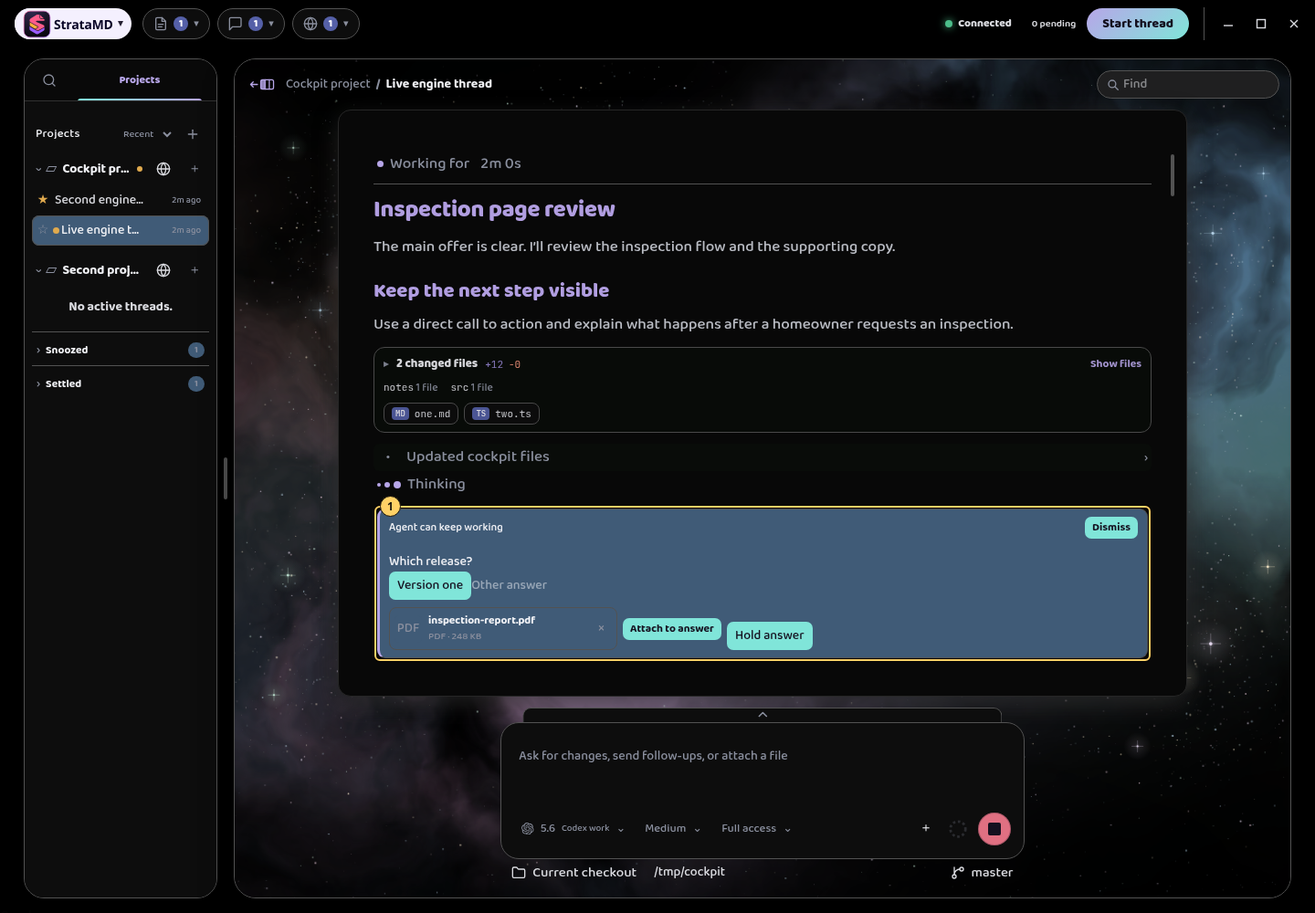
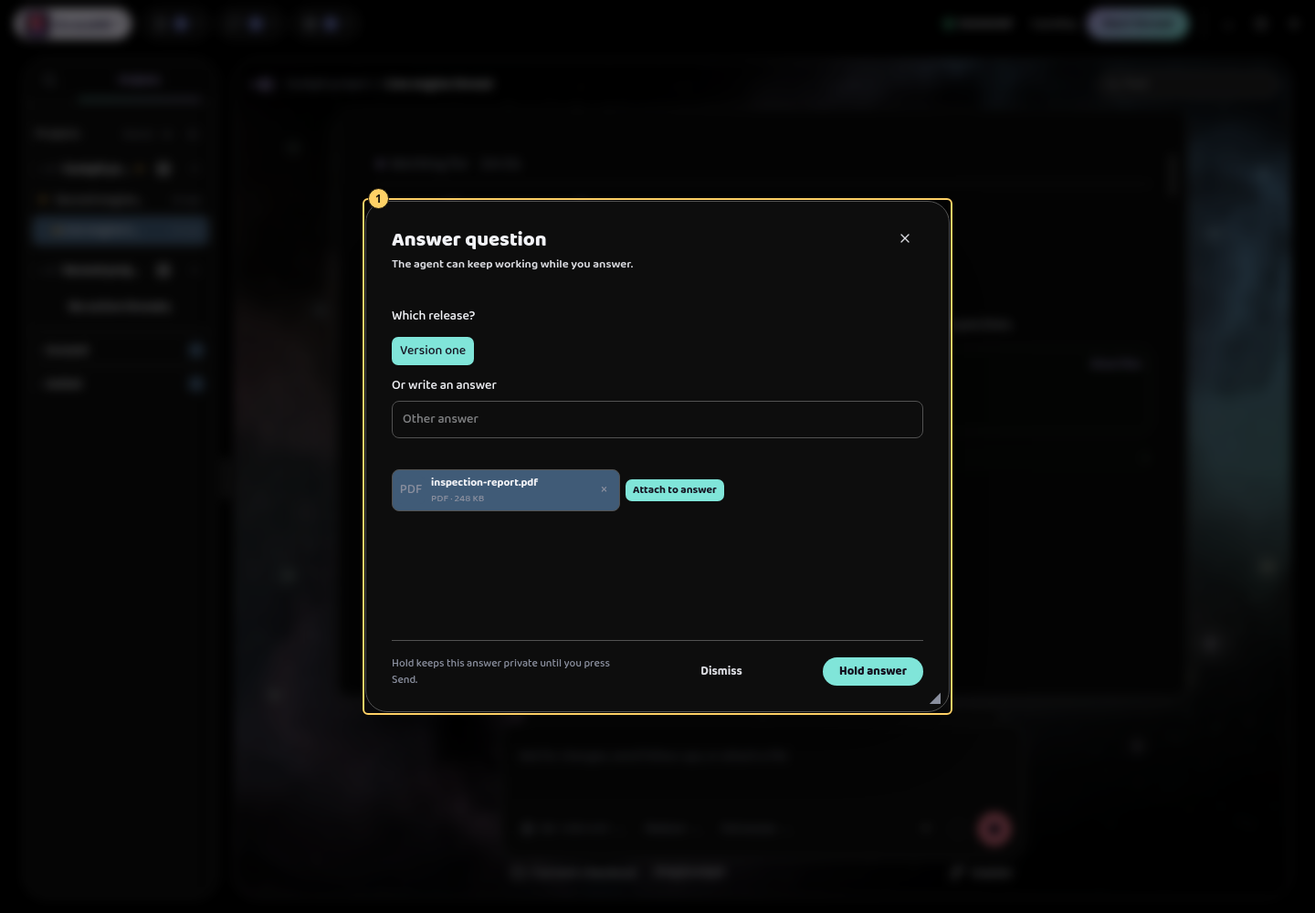
docs: correct question modal benchmark and record upstream contracts

diff --git a/docs/design/t3-additions-2026-09-08/v2/proposals.js b/docs/design/t3-additions-2026-09-08/v2/proposals.js
@@ -41,7 +41,7 @@ window.Proposals = (() => {
     const r=q(anchor).getBoundingClientRect();el.style.width=width+'px';el.style.left=Math.min(r.right-width,innerWidth-width-20)+'px';el.style.bottom=(innerHeight-r.top+10)+'px';return el;
   }
   function quota(name,value,reset,pace){return `<div class="proposal-quota"><div class="proposal-quota-line"><strong>${name} · ${value}% left</strong><span>${reset}</span></div><div class="proposal-bar" role="meter" aria-label="${name} remaining" aria-valuemin="0" aria-valuemax="100" aria-valuenow="${value}"><i style="width:${value}%"></i>${pace?`<b style="left:${pace}%" title="Time remaining in this window"></b>`:''}</div></div>`;}
-  function questions(state){
+  async function questions(state){
     const card=q('.conversation-request');mark(card,'Native question status, answer files, and dismissal');
     if(['held','sent','dismissed'].includes(state)){
       const text=state==='held'?'Answer held · Version one':state==='sent'?'Answer sent · Version one':'Question dismissed';
@@ -49,14 +49,29 @@ window.Proposals = (() => {
       if(state==='held'){heldSummary('1 answer · 1 file','held');sendButton('sent');}
       return;
     }
-    const head=node(`<div class="proposal-between proposal-question-head"><span>${state==='blocking'?'Waiting for your answer':'Agent can keep working'}</span>${state==='blocking'?'':button('Dismiss','dismissed')}</div>`);card.prepend(head);
-    q('.conversation-request form button[type="submit"]').disabled=state==='upload-error';
-    q('.conversation-request form button[type="submit"]').dataset.go='held';
-    const choice=q('.conversation-request fieldset button');choice.setAttribute('aria-pressed','true');
-    add(q('.conversation-request fieldset'),`<div class="proposal-question-files">${attachment('inspection-report.pdf',state==='upload-error'?'Could not stage this file':'PDF · 248 KB','files/pdf')}${button('Attach to answer','upload-error')}</div>`);
+    const settings=await (await fetch('reference/settings.json')).json();
+    const exported=document.createElement('template');exported.innerHTML=settings.html;
+    const backdrop=exported.content.querySelector('.modal-backdrop');
+    const modal=backdrop.querySelector('.setup-dialog');
+    modal.className='modal setup-dialog proposal-question-modal';
+    modal.setAttribute('aria-label','Answer question');
+    const header=modal.querySelector('.setup-dialog-header');
+    header.querySelector('h2').textContent='Answer question';
+    header.querySelector('.modal-subtitle').textContent=state==='blocking'?'The agent is waiting for your answer.':'The agent can keep working while you answer.';
+    header.querySelector('[aria-label="Close dialog"]').dataset.go='held';
+    const body=modal.querySelector('.setup-dialog-body');body.replaceChildren(card);
+    delete card.dataset.change;
+    card.querySelector('form > button[type="submit"]')?.remove();
+    card.querySelector('form button[type="submit"]')?.remove();
+    const choice=card.querySelector('fieldset button');choice.setAttribute('aria-pressed','true');
+    const input=card.querySelector('input');const answerLabel=node('<label class="setup-field">Or write an answer</label>');input.before(answerLabel);answerLabel.append(input);card.querySelector('fieldset').classList.add('setup-fields');
+    add(card.querySelector('fieldset'),`<div class="proposal-question-files">${attachment('inspection-report.pdf',state==='upload-error'?'Could not stage this file':'PDF · 248 KB','files/pdf')}${button('Attach to answer','upload-error')}</div>`);
     if(state==='upload-error')add(card,status('Could not read inspection-report.pdf. Choose it again to attach it.','error',button('Choose file again','asking')));
+    modal.querySelector('.parity-dialog-footer').innerHTML=`${note('Hold keeps this answer private until you press Send.')}${state==='blocking'?'':button('Dismiss','dismissed')}${button('Hold answer','held',true,state==='upload-error')}`;
+    q('.app-shell').append(backdrop);mark(modal,'Answer in the existing Strata modal, with per-answer files and Hold');
     if(state==='blocking'){const row=q('.conversation-working-row');row.textContent='Waiting for your answer';mark(row,'Working status reflects a required answer');}
   }
+
   function files(state){
     if(['attached','upload-error'].includes(state)){
       const tray=node(`<div class="conversation-attachments proposal-file-tray">${attachment('inspection-report.pdf','PDF · 248 KB','pdf')}${attachment('inspection-export.zip','ZIP · 1.8 MB','attached','ZIP')}</div>`);
@@ -192,7 +207,7 @@ window.Proposals = (() => {
   }
   const renderers={questions,files,usage,compact,skills,drafts,defaults,import:importFlow,evidence,capture,recovery,models};
   async function render(flow,state){
-    renderers[flow](state);
+    await renderers[flow](state);
     document.querySelectorAll('[data-change]').forEach(el=>{
       for(let parent=el.parentElement;parent&&parent!==document.body;parent=parent.parentElement){
         if(!['auto','scroll'].includes(getComputedStyle(parent).overflowY))continue;

diff --git a/docs/design/t3-additions-2026-09-08/v2/proposals.css b/docs/design/t3-additions-2026-09-08/v2/proposals.css
@@ -74,3 +74,13 @@
 .benchmark-overlay { position:fixed; inset:0; z-index:9999; pointer-events:none; }
 .benchmark-highlight { position:absolute; border:2px solid #ffd166; border-radius:6px; box-shadow:0 0 0 1px #000b; }
 .benchmark-highlight > b { position:absolute; left:4px; top:-13px; display:grid; place-items:center; min-width:23px; height:23px; border-radius:12px; padding:0 5px; color:#17120b; background:#ffd166; border:1px solid #17120b; font:700 12px/1 system-ui,sans-serif; }
+
+/* Owner correction: reuse the SetupDialog frame and existing answer controls. */
+.modal.setup-dialog.proposal-question-modal { width:640px; height:560px; }
+.proposal-question-modal .conversation-request { margin:0; padding:0; border:0; background:transparent; box-shadow:none; }
+.proposal-question-modal .parity-dialog-footer .proposal-note { margin-right:auto; max-width:250px; }
+
+.proposal-question-modal .conversation-request form { display:block; }
+.proposal-question-modal .conversation-request fieldset { display:grid; gap:12px; }
+.proposal-question-modal .conversation-request legend { margin-bottom:12px; }
+.proposal-question-modal .conversation-request fieldset > button { justify-self:start; }

diff --git a/docs/design/t3-additions-2026-09-08/v2/tools/capture-benchmarks.py b/docs/design/t3-additions-2026-09-08/v2/tools/capture-benchmarks.py
@@ -39,7 +39,7 @@ sources={}
 owner_review_path=base/'owner-review.json'
 owner_review=json.loads(owner_review_path.read_text()).get('review',{}) if owner_review_path.exists() else {}
 components={
- 'questions':['Conversation.tsx','ConversationComposer.tsx'], 'files':['Conversation.tsx','ConversationComposer.tsx','PreviewWindow.tsx'],
+ 'questions':['Conversation.tsx','ConversationComposer.tsx','SetupDialog.tsx'], 'files':['Conversation.tsx','ConversationComposer.tsx','PreviewWindow.tsx'],
  'usage':['AccountsDialog.tsx'], 'compact':['Conversation.tsx','ConversationComposer.tsx'], 'skills':['ConversationComposer.tsx'],
  'drafts':['ProjectsPanel.tsx','ConversationComposer.tsx'], 'defaults':['SettingsDialog.tsx','SetupDialog.tsx'], 'import':['SetupDialog.tsx','ProjectsPanel.tsx'],
  'evidence':['ConversationMessage.tsx','PreviewWindow.tsx'], 'capture':['VisualSession.tsx','ConversationComposer.tsx','SetupDialog.tsx'],
@@ -79,6 +79,7 @@ for flow in data['flows']:
         elif source=='image-annotation':affected=['.visual-card']
         elif flow['id']=='drafts':affected=['.project-thread[data-lifecycle="active"]','.chat-composer']+(['.conversation-messages'] if state=='opened' else [])
         else:affected=['.conversation-messages','.chat-composer']
+        if flow['id']=='questions' and state in ['asking','blocking','upload-error']:affected+=['.modal-backdrop']
         if flow['id']=='recovery' and state=='reconnecting':affected+=['[aria-label="Engine status"]']
         baseline_rects=rects(affected)
         info=load(flow['id'],state,'proposed')

diff --git a/docs/reviews/t3-additions-upstream-contracts-2026-09-08.md b/docs/reviews/t3-additions-upstream-contracts-2026-09-08.md
@@ -1,0 +1,97 @@
+# T3 upstream implementation audit
+
+Read-only audit, September 8 Arizona / September 9 UTC. Source extracted from official GitHub codeload at `/tmp/strata-t3-implementation-source`, revision `08463e2c401ce87858aaaebcb70ed86fb002fb5f`. No repository or app changes. AGENTS.md read; root MEMORY.md absent.
+
+## Engine package conclusion
+
+No currently published `t3` version contains all required changes. Official [npm metadata](https://registry.npmjs.org/t3) reports stable `0.0.40` and nightly `0.0.41-nightly.20260909.1426`. Neither published metadata entry includes `gitHead`; do not invent one. [Official nightly release](https://github.com/pingdotgg/t3code/releases/tag/v0.0.41-nightly.20260909.1426) identifies target commit `3e6f856f2359421958a3aa046f2c393e00f3dc6a`, published on npm at `2026-09-09T01:13:28.931Z`.
+
+GitHub compare API confirms that target is a descendant of #8103, #9871, #10431, #10501, #10572. Captured source is exactly two commits ahead: #10859 relay notification routing and #10777 event replay memory fix. [Official comparison](https://github.com/pingdotgg/t3code/compare/3e6f856f2359421958a3aa046f2c393e00f3dc6a...08463e2c401ce87858aaaebcb70ed86fb002fb5f).
+
+Recommended baseline is an EXACT pin to `t3@0.0.41-nightly.20260909.1426`, plus a deterministic source build/backport of #10777 if all requirements must ship now. A bare pin cannot be signed off as satisfying the replay fix. Prefer reproducible source build from captured commit over a brittle manual minified bundle edit. Alternative is a later published nightly whose ancestry is explicitly verified before adoption. Stable 0.0.40 lacks the other after-stable work. The source package.json still says 0.0.40 because release automation sets published versions; that value is not source provenance.
+
+Saved evidence: `/tmp/strata-t3-npm-metadata.json`, `/tmp/strata-t3-nightly-release.json`, `/tmp/strata-t3-nightly-compare.json`, `/tmp/strata-t3-pr-ancestry.json`. These were fetched from registry.npmjs.org and api.github.com. No runtime compatibility certification has been performed.
+
+## Exact feature contracts and adapter gaps
+
+All upstream paths below are relative to extracted source. Local paths are relative to StrataMD.
+
+### 1. Server usage limits
+
+`packages/contracts/src/providerUsageLimits.ts` owns `ServerProviderUsageLimits`: required `checkedAt`, `windows`; optional `resetCredits`, `unavailable`. Window fields are `id`, `kind` (`session|weekly|monthly|other`), `label`, `usedPercent`, optional `resetsAt`, `windowDurationMins`. `unavailable.reason` is `unsupported|probeFailed`. `resetCredits` has `availableCount`, optional `nextExpiresAt`, `nextCreditId`.
+
+`packages/contracts/src/server.ts` exposes provider `usageLimits` in `server.getConfig` and provider config stream updates; config optionally has `usageLimitSources`, with its own source update event. `server.refreshProviders` payload in `rpc.ts` permits `instanceId`, `cwd`, `refreshModels`. Provider runtime sparse updates merge windows by stable id; omitted windows remain unchanged.
+
+Strata `t3-contract.ts` only types its older local `usage` shape (session/weekly, measuredAt/source); `accounts.ts` and `client.ts` call the helper. Map windows into account measurements but retain the complete reported window collection for UI. `probeFailed` should preserve last good readings; `unsupported` must clear applicability. Do not confuse checkedAt with reset time. Shared account view needs duration, per-window labels/ids, and unavailable status for accurate remaining/pace display. Preserve parking/routing independently of quota. One provider model can have several weekly windows; blindly selecting the first weekly window is lossy.
+
+### 2. Native async questions
+
+`packages/contracts/src/providerRuntime.ts` request payload has optional `responseMode: 'message'`. Missing means blocking native callback. `orchestration.ts` defines `thread.user-input.dismiss` with commandId/threadId/requestId/createdAt. `thread.user-input.respond` retains the same identities and answers.
+
+`apps/server/src/orchestration/decider.ts` rejects dismissal of blocking requests. Successful dismissal appends `thread.activity-appended` containing kind `user-input.resolved`, payload `{requestId,responseMode:'message'}` and summary `User input dismissed`; there is no separate user-input.dismissed activity to wait for. Ingestion and projector retain async pending questions while a turn continues and across reconnect.
+
+Strata `client.ts` has respondUserInput only. Add typed dismissal, carry responseMode from existing activity payload into card state, resolve by requestId, and avoid native/inferred duplicate items. Do not decide dismissibility from whether the thread currently runs. Held-answer persistence must remain request-identified.
+
+### 5. Restart continuation
+
+`packages/contracts/src/settings.ts` exact environment-owned preference is `continueThreadsAfterServerUpdate`, default false; patch has same key. Write via `server.updateSettings {patch:{continueThreadsAfterServerUpdate:boolean}}`. `server.ts` also permits `server.updateServer` self-update input `{targetVersion,continueRunningThreads?}`. These are different fields and lifecycles.
+
+`apps/server/src/serverRuntimeStartup.ts` and `provider/Layers/ProviderService.ts` use the environment preference for opt-in restart recovery. Existing session resume and fallback continuation are server responsibilities. Strata manager owns its own maintenance lifecycle and must coordinate durable pending sends and held replies before allowing active-work shutdown. Merely adding a local preference or npm upgrade does not enable recovery. Do not call server self-update to replace Strata's managed package lifecycle.
+
+### 6. Compact context
+
+There is NO special public compact RPC or orchestration command. `apps/server/src/orchestration/Layers/ProviderCommandReactor.ts:82` detects a user message whose trimmed/lowercased text is exactly `/compact` AND attachment count is zero. Submit normal `thread.turn.start` with empty attachments and current thread/model/runtime settings. It requires an existing conversation and no running provider turn. `provider/Services/ProviderAdapter.ts` optional `compactThread` is the provider capability; unsupported providers return a clear error rather than sending `/compact` as a normal prompt.
+
+`ProviderRuntimeIngestion.ts` publishes `context-compaction` activities with optional `beforeTokens`, `afterTokens`; compaction state also drives the upstream UI. Read `apps/web/src/components/chat/MessagesTimeline.tsx` for progress/completion interpretation. Strata's normal delivery path appends its generated context attachment, so routing Compact through that path silently prevents compaction. Add a dedicated client operation that sends the plain command without document delivery, held feedback or attachment merging.
+
+### 7. Per-answer attachments
+
+`orchestration.ts` `UserInputAttachments` is a record from question id to arrays of `ChatImageAttachment|ChatFileAttachment`, each array capped at provider max attachments. `thread.user-input.respond` adds optional `attachmentsByQuestionId`. `UserInputAttachmentAnswerPayload` also carries requestId, answers, optional questionTextById. Use uploaded durable attachment refs, not data URLs in this field.
+
+Strata `t3-contract.ts` answers is unknown-record and passthrough would retain an extra field, but `client.ts`/preload/shared `answerEngineUserInput` accept only answers and never construct it. Extend all layers plus persisted held question drafts, reconcile by stable question id and request id, and reuse binary staging. Blocking and async are both supported upstream. Check total budget across answers, generated context, and other staged attachments rather than assuming per-record limits authorize unlimited aggregate attachments.
+
+### 9. Commands and skills
+
+`server.ts` types `ServerProviderSlashCommand {name,description?,input?:{hint}}` and `ServerProviderSkill {name,description?,path,scope?,enabled,displayName?,shortDescription?,userInvocationOnly?,userInvocable?}`. Provider config has slashCommands, skills, optional workspaceSnapshots; snapshot is `{cwd,checkedAt,slashCommands,skills}`. Refresh via `server.refreshProviders {instanceId,cwd,refreshModels?}` and consume server config changes.
+
+Use selected provider AND current cwd snapshot. Exclude disabled and `userInvocable:false` skills. `userInvocationOnly:true` requires slash invocation; inserting a bare name in ordinary prose does not invoke it. Strata provider passthrough retains fields only as unknown and its view mapper drops them. Add typed descriptors/view fields and searchable composer menu, not a second filesystem skill scanner.
+
+### 10. Shared project defaults
+
+`packages/contracts/src/t3ProjectFile.ts` is the exact checked-in `t3.json` schema: `$schema?`, `iconPath?`, `defaultThreadEnvMode?:'local'|'worktree'`, `scripts?`. Scripts have name,command, optional icon/runOnWorktreeCreate/previewUrl/autoOpenPreview. This is not a generic provider/model configuration file.
+
+`orchestration.ts` project `defaultThreadEnvMode` is optional/null for inheritance. Global server settings also have defaultThreadEnvMode. Priority is explicit per-project override, t3.json, global. `project.meta.update` writes the project override. `apps/web/src/lib/t3ProjectFileDefaults.ts` reads file through project.readFile; `hooks/useT3ProjectFileScripts.ts` distinguishes valid/invalid/missing. `apps/server/src/project/T3ProjectFileLoader.ts` loads for server consumers. Shared scripts are offered for import; do not auto-run arbitrary new repository scripts.
+
+Strata project contract is passthrough but mapper has no defaults/source explanation. Add explicit fields and reset-to-inherit state. Keep checked-in file, environment global settings, per-project metadata and Strata-local UI settings separate. Shared defaults must not override explicit new-thread choices or introduce autoPull.
+
+### 12. Discover/import history
+
+`packages/contracts/src/rpc.ts` exact methods `agentSessions.scan` and `agentSessions.import`; schemas in `agentSessions.ts`. Scan payload `{}`. Result `{candidates,scannedAt,truncated?}`; candidate `{path,title,projectId?,sources:['claudeAgent'|'codex'],threadCount,lastActiveAt,alreadyImported,git?}`; git null or `{remoteKey,repository}`. Import payload `{projectId,expectedWorkspaceRoot?}` and result `{importedCount,skippedCount}`. Create/select a project first, then import with expectedWorkspaceRoot to guard directory changes.
+
+Server owns provider-home discovery and native resume metadata. Source identity includes provider instance/session id, file path, size, mtime, device/inode/birthtime. Imported message ids start `import:` and retries skip unchanged history. Do not manually convert transcripts or create an app-local import provenance substitute. Strata needs scan/import methods through engine/preload/UI, bounded loading/errors, and count results. Existing engine shell subscription can receive imported threads. Respect private-data boundary by excluding prohibited candidate paths in Strata and never initiating import of that state.
+
+### 15. Custom models/options
+
+`packages/contracts/src/model.ts` `CustomModelSetting = string | {slug,name?,capabilities?:{optionDescriptors?}}`. Descriptor union is select or boolean. Common fields id,label,description?; select has options [{id,label,description?,isDefault?}], currentValue?, promptInjectedValues?; boolean has currentValue?. `ModelSelection.options` uses [{id,value:string|boolean}], with legacy object decode compatibility.
+
+Strata already supports server model names and option controls in client.ts/models view. Gaps: `src/shared/engine-settings.ts` provider instance config customModels strictly accepts strings only, so rich object settings can fail the full settings decode. `t3-contract.ts` descriptor parser strips description and promptInjectedValues; shared ModelOptionDescriptor omits both. Preserve optional metadata in typed contracts and replace comma-split model settings editor with durable object editing. Preserve legacy string entries on load. Model capability metadata must survive read-edit-save; do not overwrite unknown model fields when only changing a name.
+
+## Integration risks to settle before signoff
+
+1. No unmodified published package currently meets all PR requirements.
+2. The npm package contains engine/web code, not Electron host implementation. #8103 and preview capture changes require Strata host adaptations even when commits are included in engine ancestry.
+3. Missing rich-model schemas can make readSettings reject valid upstream settings immediately after upgrade.
+4. Compact must bypass Strata-generated context attachments and ordinary pending delivery consumption.
+5. Async dismissal uses existing resolved activity; an invented dismissed event leaves questions stuck.
+6. Usage must retain last good limits during probe failure and cannot be reduced losslessly to one session plus one weekly window.
+7. This audit confirms source contracts and release ancestry only. Full Strata gate and isolated real-engine smoke verification are still required.
+
+## Published artifact and patchability follow-up
+
+Downloaded official tgz to `/tmp/strata-t3-nightly-package.tgz`, extracted `/tmp/strata-t3-nightly-package/package`. SHA-512 matched npm integrity exactly. Registry SLSA provenance at `/tmp/strata-t3-nightly-provenance.json` explicitly resolves GitHub source `3e6f856f2359421958a3aa046f2c393e00f3dc6a` and workflow `.github/workflows/release.yml`, invocation `https://github.com/pingdotgg/t3code/actions/runs/34297062529/attempts/1`. This is stronger source identity evidence than release target alone, although no independent Sigstore signature-chain validation was run.
+
[1 lines of base64/hex data omitted]
+
+A tightly scoped deterministic bundle backport is feasible because the two function blocks remain identifiable, but upstream Stream.paginate appears tree-shaken out of the bundle. Do not introduce an undefined paginate symbol. Need either compatible external Effect stream import from the same package version or the exact pinned implementation with dependencies, verified against upstream retained-page test. Relevant emitted aliases: map$5 is Effect.map, flatMap$1 Effect.flatMap, flatMap$3 Stream.flatMap, empty$15 Stream.empty.
+
+A patch installer should reject unrecognized bundle hash or replacement counts, preserve MIT LICENSE (`Copyright (c) 2026 T3 Tools Inc.`), and record npm integrity, upstream PR/commit, exact before/after digests and intentional modifications. Keep the source patch attribution with the shipped change. Installing the unmodified upstream package and later mutating dist without including that modification in engine identity/verification would make rollback/reuse evidence misleading. Prefer the deterministic backport if source rebuilding adds unrelated release tooling complexity, but it still needs the retention regression test against actual patched code.

diff --git a/docs/design/t3-additions-2026-09-08/v2/benchmark-guide.md b/docs/design/t3-additions-2026-09-08/v2/benchmark-guide.md
@@ -1,6 +1,6 @@
 # Strata mockup benchmarks, revision 2
 
-All 15 accepted additions are covered by 12 flows and 58 visual states. The [saved owner review](owner-review.md) records nine approved flows, one needing changes, and two without a saved decision. Approved flows with comments require only the named corrections. Implementation starts after the remaining design decisions.
+All 15 accepted additions are covered by 12 flows and 58 visual states. The [saved owner review](owner-review.md) records nine approved flows, one needing changes, and two without a saved decision. Approved flows with comments require only the named corrections. Dillon subsequently authorized implementation of all 15 features. The question states now apply his requested modal correction; the historical review remains unchanged.
 
 Open the [interactive gallery](http://127.0.0.1:43871/v2/) to compare current Strata, the proposal, and numbered change highlights. The first gallery is superseded and must not be used as an implementation benchmark.
 
@@ -43,9 +43,9 @@ The surrounding gallery controls and yellow highlights are review aids. They are
 
 ## Instructions for implementation agents
 
-Use the approved state's `captures/<flow>-<state>-proposed.png` as the visual target. Its `-annotated.png` identifies the changed elements. The gallery links both images and the state's JSON specification. That specification lists the actual source components, change selectors and bounds, scroll positions, affected layout areas, and behavior checks.
+Use each state’s `captures/<flow>-<state>-proposed.png` as the visual target. Its `-annotated.png` identifies the changed elements. The gallery links both images and the state's JSON specification. That specification lists the actual source components, change selectors and bounds, scroll positions, affected layout areas, and behavior checks.
 
-Keep the existing app frame, fonts, theme, component spacing, icons, and unrelated controls. Extend the named product components. Do not copy the exported HTML into the product: this folder is a design fixture, not a new component architecture.
+Keep the existing app frame, fonts, theme, component spacing, icons, and unrelated controls. Questions use the exported SetupDialog frame at 640 × 560 with its existing answer controls. The modal backdrop intentionally dims the app; this affects the whole viewport in those states. Extend the named product components. Do not copy the exported HTML into the product: this folder is a design fixture, not a new component architecture.
 
 Match the capture conditions before comparing screenshots:
 

diff --git a/docs/design/t3-additions-2026-09-08/v2/owner-review.md b/docs/design/t3-additions-2026-09-08/v2/owner-review.md
@@ -31,3 +31,7 @@ The other eight approved flows have no notes. No decision was inferred for the t
 
 The [raw browser record](owner-review.json) preserves Dillon's exact wording and the original saved status for every flow. This export does not change the gallery's saved feedback.
 
+
+## Implementation authorization and question correction
+
+Dillon subsequently requested implementation of all 15 features. The historical decisions above remain unchanged. The question benchmark now uses the existing SetupDialog frame and answer controls in a 640 × 560 modal, with Hold, optional dismissal, and per-answer files. The asking, blocking and upload-error images were replaced; all six question states were recaptured and checked. This records the requested correction, not a new owner approval.
